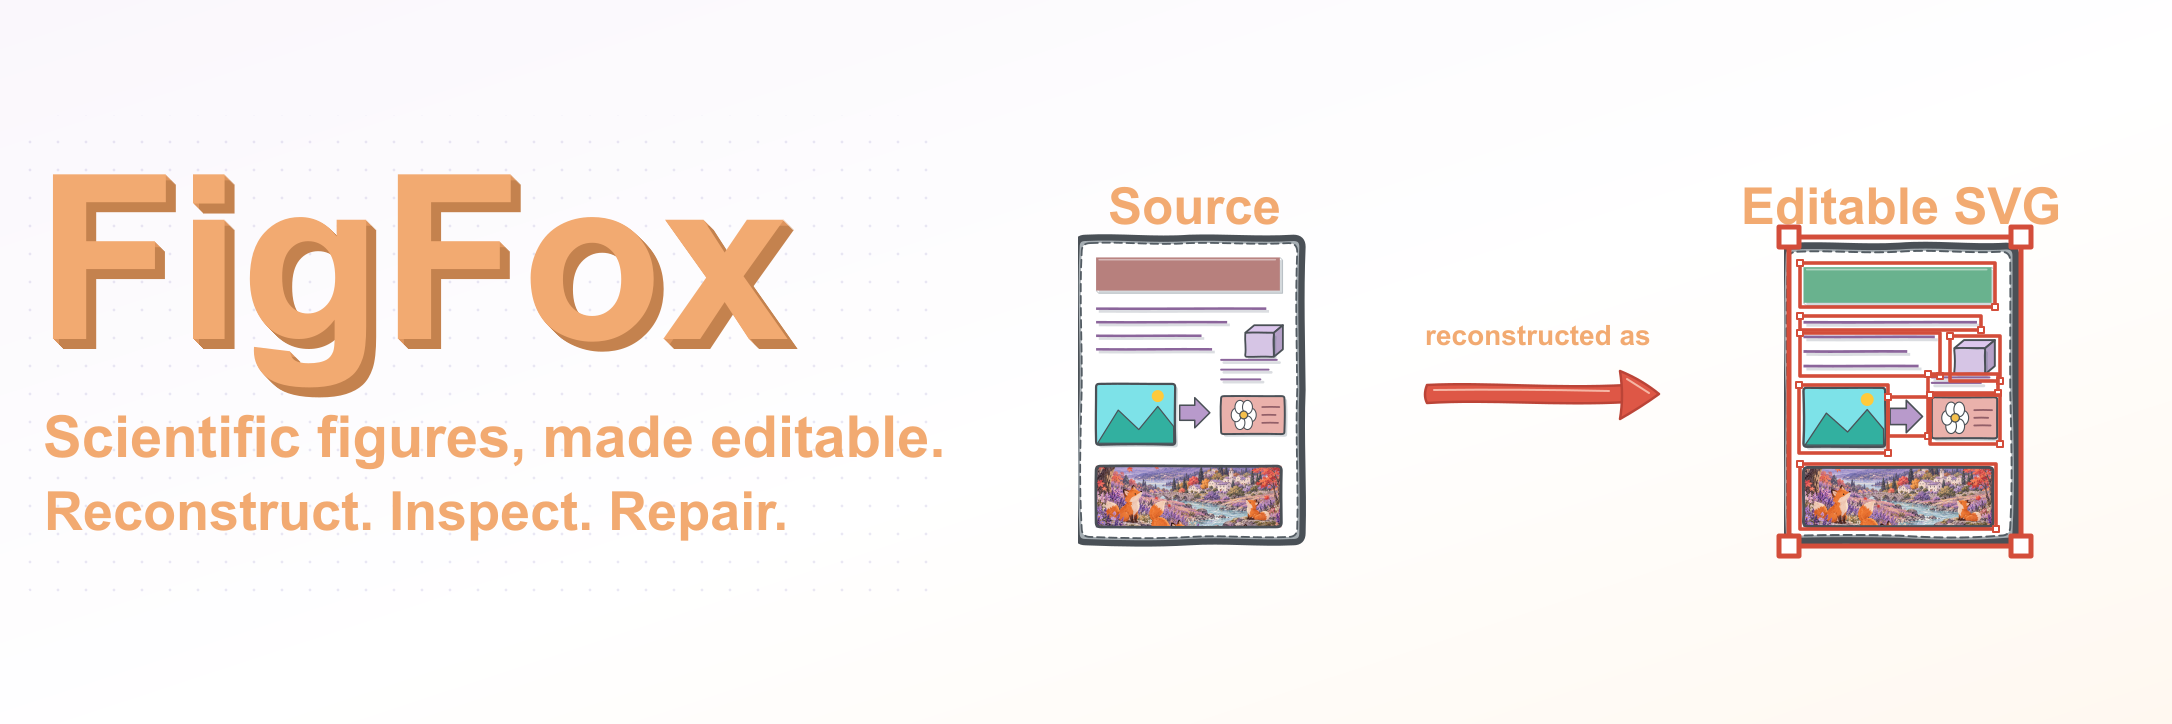
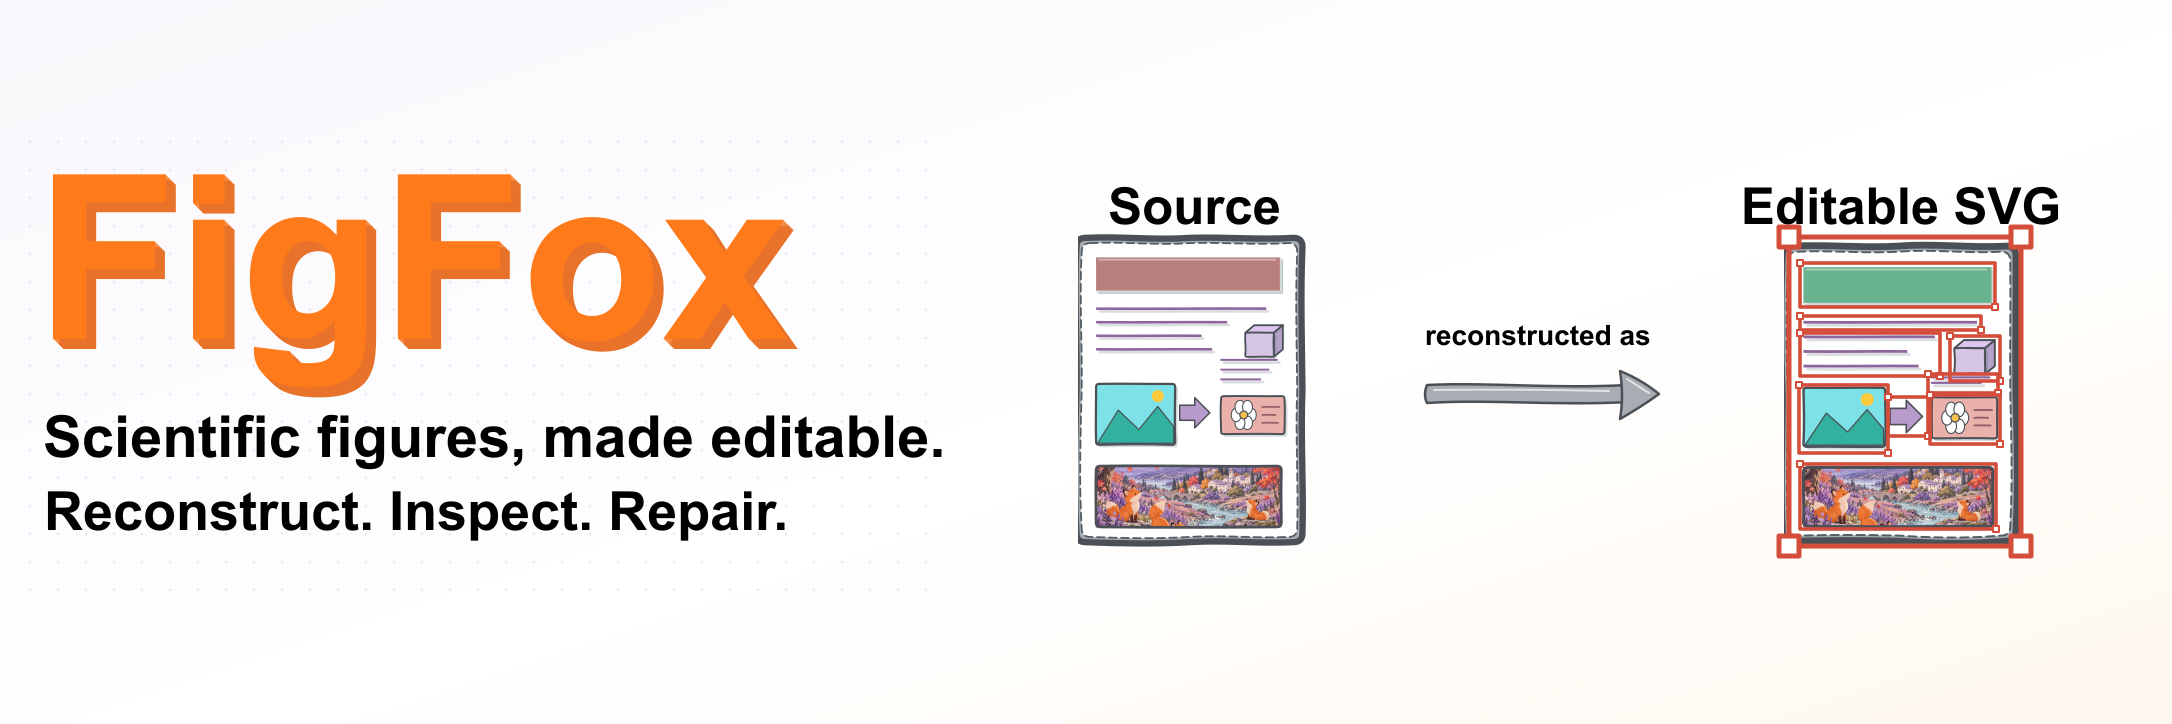
Match cover lettering and arrow to author color feedback

diff --git a/docs/release-scope.md b/docs/release-scope.md
@@ -14,6 +14,6 @@ The code-only verification for this publication makes no paid model requests and
 
 ## README visual assets
 
-The new editorial cover was generated with FigFox Generate V2, then reconstructed by the calling assistant through the standalone FigFox Skill as native text and geometry. A scoped typography repair and a separate actual text/shape editing probe were executed and rendered. The editable font is an approximation of the generated source; flat fills omit its fine raster texture. The Source and Editable SVG illustrations were subsequently replaced with the exact native `reference-image` and `final-editable-svg` groups from the author’s local architecture SVG. Their native geometry and embedded photo assets are preserved; nine red object-selection frames are editorial overlays. ICME-orange lettering (#F2AA71), same-family text-depth layers, pale purple background dots and a red hand-drawn rod arrow were added as scoped native SVG edits. The enlarged illustrations have no backing cards. These existing-SVG edits were applied through the FigFox Skill, and the README preview is rendered from the final SVG.
+The new editorial cover was generated with FigFox Generate V2, then reconstructed by the calling assistant through the standalone FigFox Skill as native text and geometry. A scoped typography repair and a separate actual text/shape editing probe were executed and rendered. The editable font is an approximation of the generated source; flat fills omit its fine raster texture. The Source and Editable SVG illustrations were subsequently replaced with the exact native `reference-image` and `final-editable-svg` groups from the author’s local architecture SVG. Their native geometry and embedded photo assets are preserved; nine red object-selection frames are editorial overlays. An author-requested bright orange FigFox wordmark (#FF7A1A), same-family text-depth layers, black supporting text, pale purple background dots and a hand-drawn rod arrow in the architecture’s greys (#A9ADB3/#4A5056) were added as scoped native SVG edits. The enlarged illustrations have no backing cards. These existing-SVG edits were applied through the FigFox Skill, and the README preview is rendered from the final SVG.
 
 The three manuscript figures are reused unchanged from the author-provided original SVG/PNG files. No plot was regenerated and no measured values were altered. `docs/assets/asset-provenance.json` records their hashes. These selected illustrations do not release the full underlying image collection or raw experiment archive.
